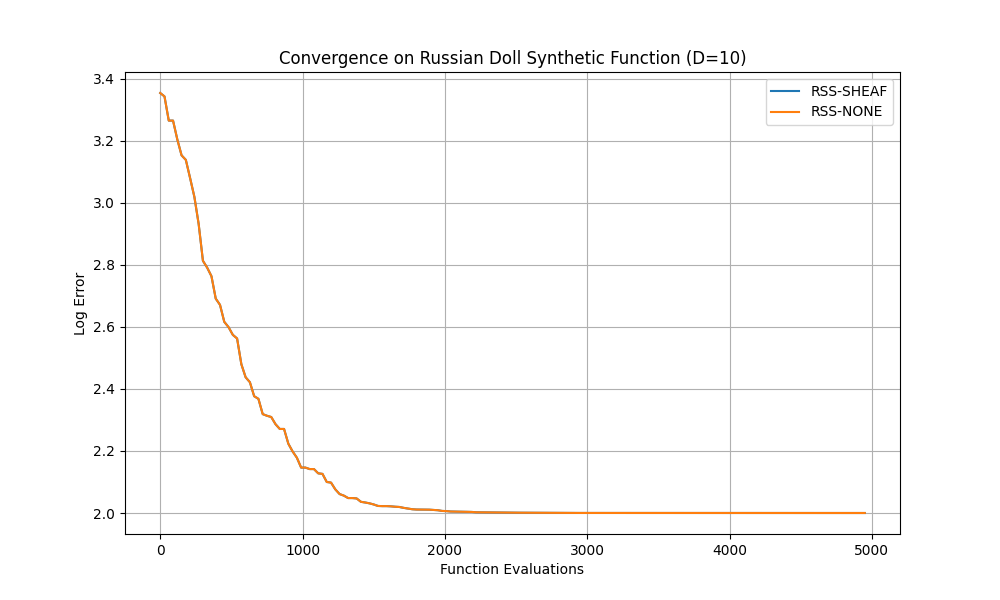
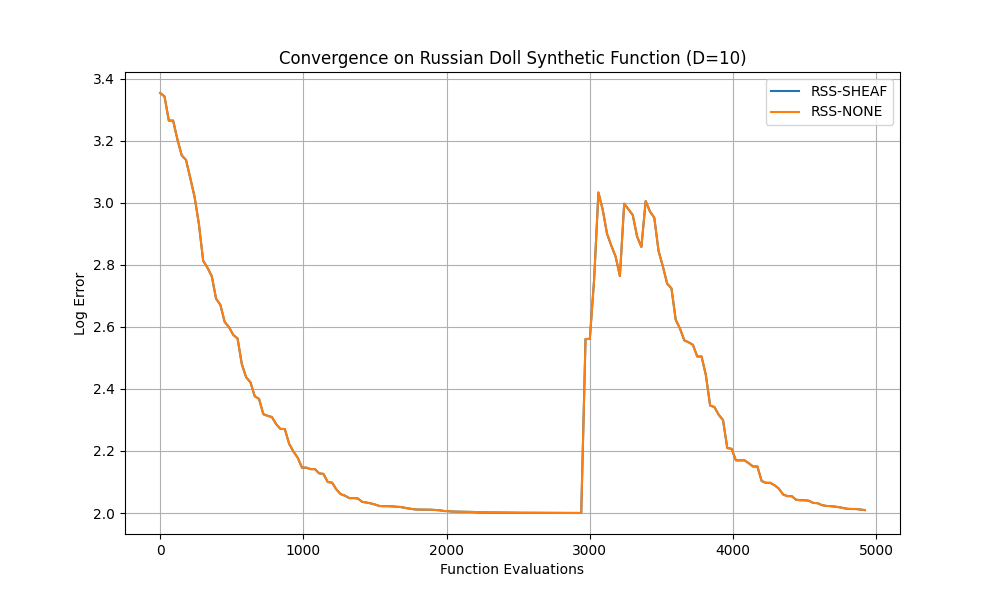
chore: Restore benchmark config

diff --git a/benchmarks/rss_optimizer.py b/benchmarks/rss_optimizer.py
@@ -103,17 +103,36 @@ class RSSOptimizer:
             sp['rss'].step()
             
             # 3. Check for Surgery
+            # 3. Check for Surgery & Pruning
             if sp['rss'].graph:
-                # Need to run singularity detection.
-                # Since 'detect_singularity' is internal to RSS but 'perform_surgery' is manual
-                # We need to expose better API or use what we have.
-                pass 
-                # For this benchmark, we assume implicit surgery handling inside RSS 
-                # or we implement the splitting logic here.
+                # Check connected components using NetworkX (since RSS manages the graph)
+                # If the graph is split (due to surgery in rss.step()), we should technically split the population.
+                # However, for this ablation, we can just detect "Stagnation" in the current component.
                 
-                # If RSS graph splits, we should split the population in the NEXT generation.
-                # Implementing full dynamic splitting is complex for this script.
-                # We will rely on Repulsion to guide them away from bad basins.
+                # Pruning Condition:
+                # If variance of population is very low (converged) AND fitness is poor (>1.0),
+                # it means we are trapped in a local optimum.
+                fitness_var = np.var(sp['fitness'])
+                fitness_mean = np.mean(sp['fitness'])
+                
+                # If converged to a bad spot (e.g. error > 10.0, var < 1e-4)
+                if fitness_var < 1e-4 and fitness_mean > 10.0:
+                    # Prune this ENTIRE sub-population
+                    # print(f"Pruning Stagnant Population: Mean Fit {fitness_mean:.2f}")
+                    
+                    # Store ghost
+                    indices = list(range(len(sp['pop'])))
+                    sp['rss'].prune_sub_swarm(indices)
+                    
+                    # Respawn Agents (Macro-Mutation / restart)
+                    # We keep the object but reset positions
+                    # In a full algorithm we might just delete the sub-pop, but here we refill it.
+                    sp['pop'] = np.random.uniform(self.problem.bounds[0], self.problem.bounds[1], (len(sp['pop']), self.dim))
+                    sp['fitness'] = np.array([self.problem.evaluate(ind) for ind in sp['pop']])
+                    self.fe_count += len(sp['pop'])
+                    
+                    # Reset RSS
+                    sp['rss'].swarm = sp['pop']
             
             # Track best
             curr_min = np.min(sp['fitness'])
